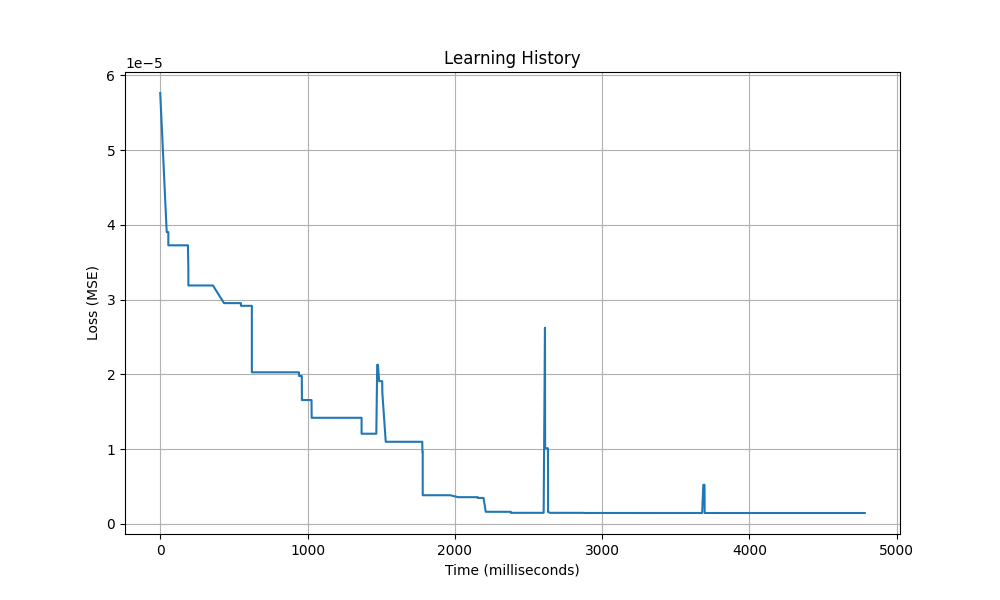
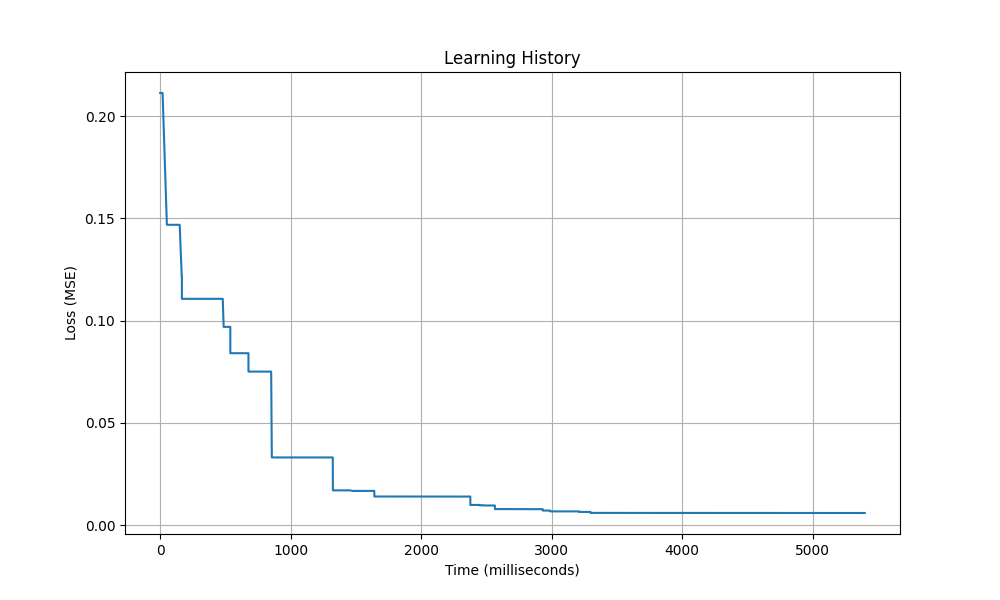
Fix MSE calculation (use sum/m instead of sum/m^2)

diff --git a/src/runners/cpu/runner.cc b/src/runners/cpu/runner.cc
@@ -80,8 +80,8 @@ void Runner::train(const ProgramIndividual &p, std::shared_ptr<const Dataset> da
             // Print an empty line in between forward propagation output and backpropagation output
             vm_debug_print(tid, "");
 
-            // Save squared difference as the loss
-            loss_d.ptr[0] += powf(stack_d.ptr[0,tid], 2);
+            // Save squared difference divided by m [ (l/m)^2 * m = l^2/m ] as the loss
+            loss_d.ptr[0] += powf(stack_d.ptr[0,tid], 2) * (float)dataset->m;
 
             if (epochs > 0) {
                 vm_debug_print(tid, "Backpropagation");
